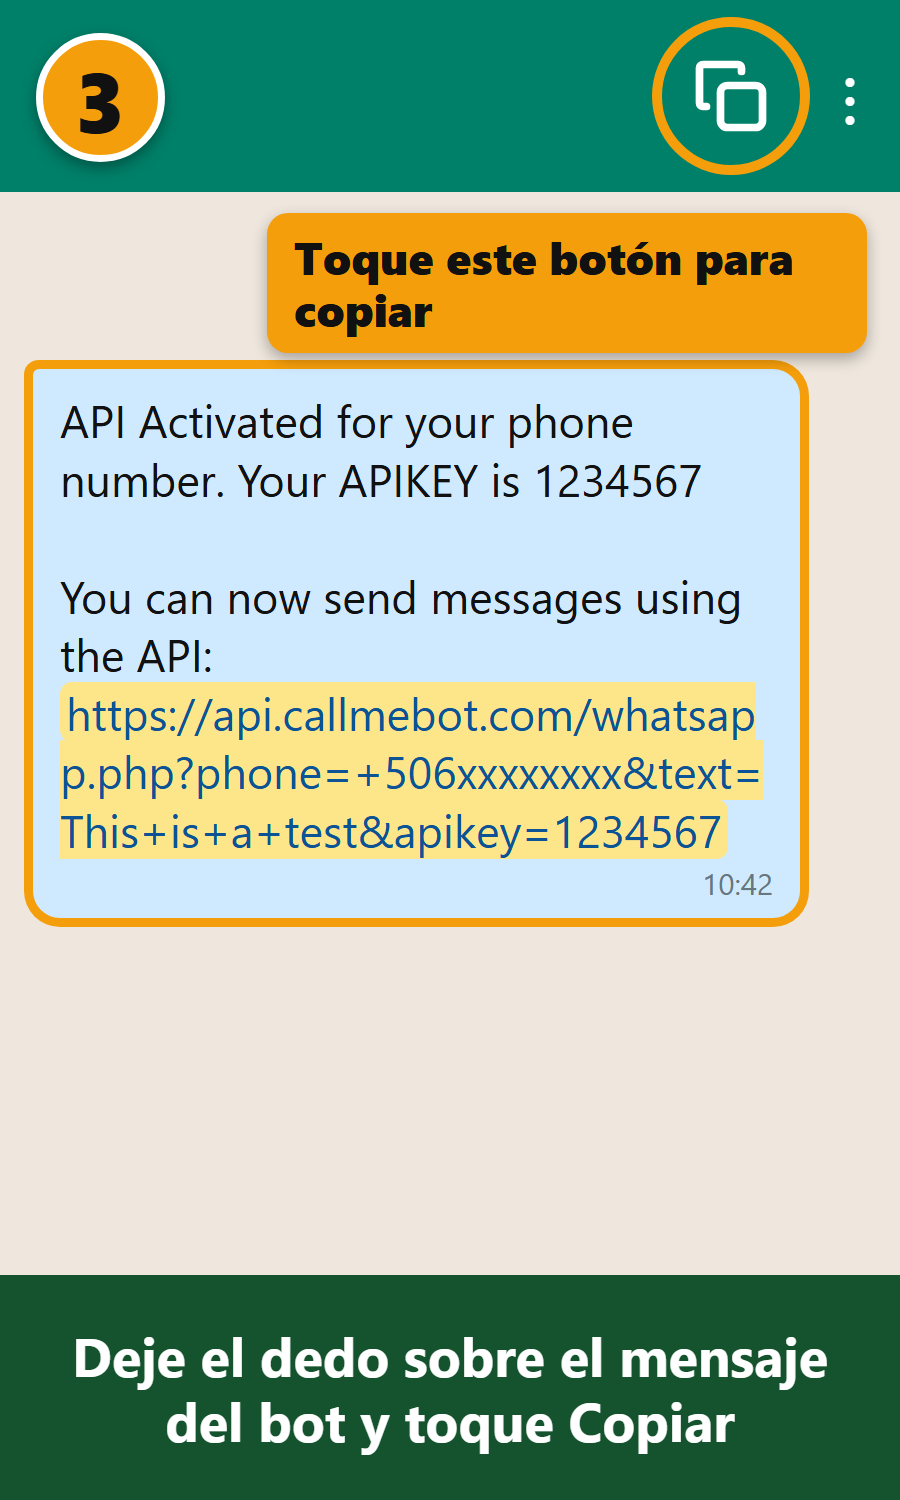
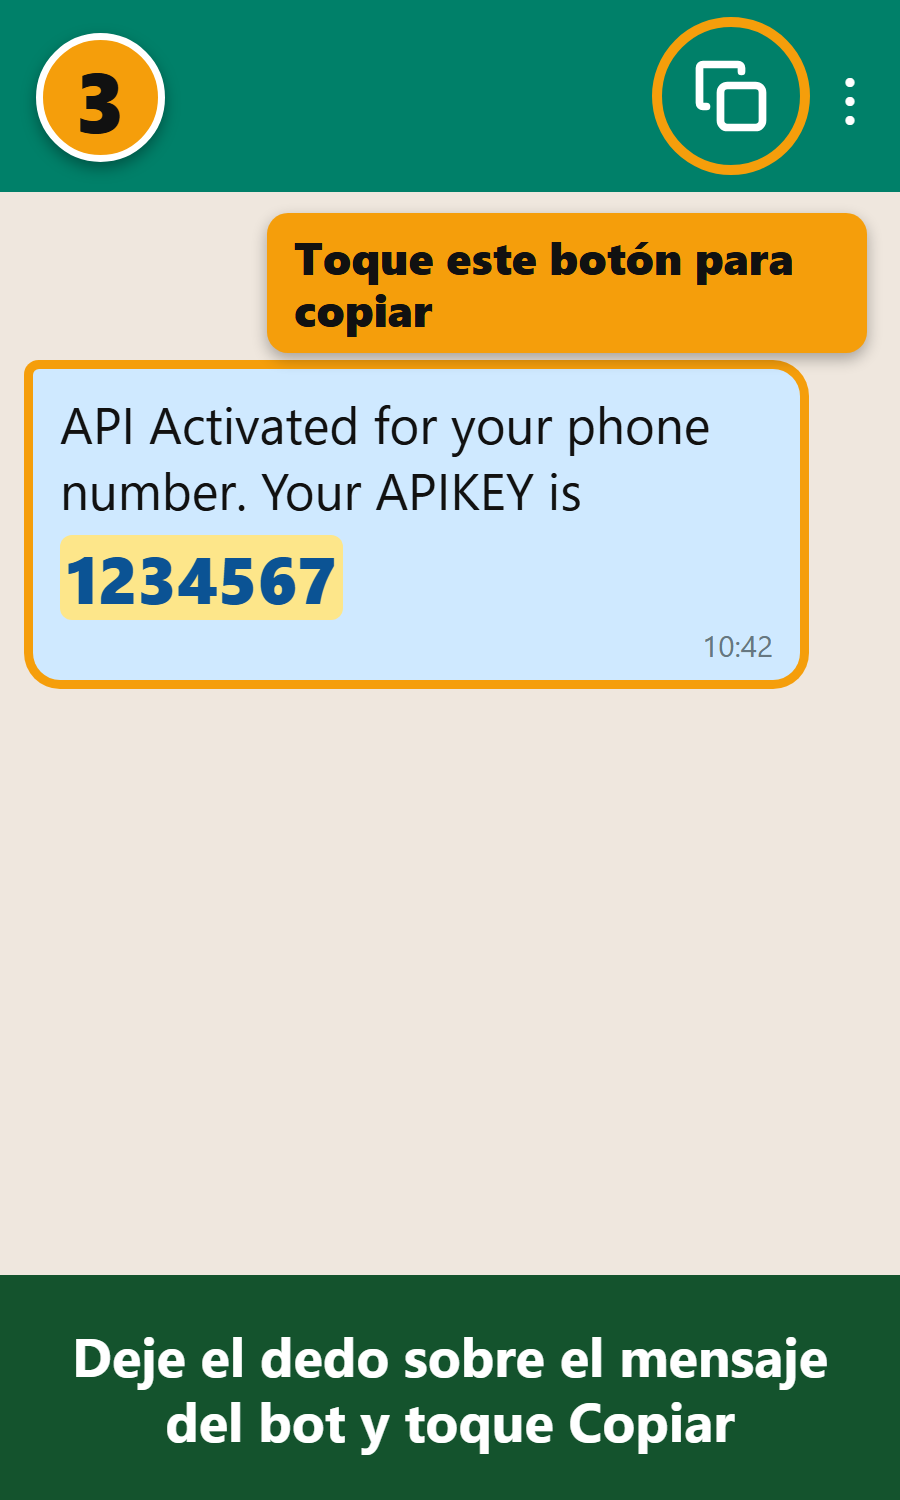
Guía de WhatsApp: el paso 3 muestra la respuesta real del bot (la clave) y letra más grande

Changed region(s): [[0.0, 0.276, 0.9022, 0.644]]

diff --git a/resources/views/whatsapp/_pasos.blade.php b/resources/views/whatsapp/_pasos.blade.php
@@ -30,12 +30,12 @@
     </li>
     <li class="border border-gray-200 rounded-lg overflow-hidden">
         <img src="{{ $imagen('paso-3-enlace.png') }}" width="600" height="1000" loading="lazy"
-             alt="Mensaje de respuesta del bot con el enlace resaltado y el botón Copiar" class="w-full max-w-xs mx-auto">
+             alt="Mensaje de respuesta del bot con la clave resaltada y el botón Copiar" class="w-full max-w-xs mx-auto">
         <div class="p-4 space-y-2">
             <h4 class="text-lg font-semibold text-gray-900">Paso 3. Copie la respuesta del bot</h4>
-            <p class="text-base text-gray-700">El bot le responde con un mensaje que trae un <strong>enlace largo</strong>. Deje el dedo sobre ese mensaje y toque <strong>Copiar</strong>.</p>
+            <p class="text-base text-gray-700">El bot le responde con un mensaje que dice <strong>Your APIKEY is</strong> y un número (su clave). Deje el dedo sobre ese mensaje y toque <strong>Copiar</strong>.</p>
             <p class="text-base text-gray-700">Después péguelo en el cuadro de aquí abajo.</p>
-            <p class="text-sm text-gray-600">Si el bot le dice «You already have an apikey», no se preocupe: ese mensaje también trae su enlace y sirve igual.</p>
+            <p class="text-sm text-gray-600">Si el bot le dice «You already have an apikey», no se preocupe: ese mensaje también trae su clave (y a veces un enlace largo) y sirve igual.</p>
         </div>
     </li>
 </ol>

diff --git a/resources/manual/whatsapp/generar_imagenes.py b/resources/manual/whatsapp/generar_imagenes.py
@@ -107,8 +107,7 @@ def paso3():
   <div class="resalta" style="width:84px;height:84px;border-radius:50%;display:flex;align-items:center;justify-content:center">{ICONO_COPIAR}</div>
   <span style="font-size:48px;color:#fff">&#8942;</span></div>
 <div class="wa-chat" style="padding-top:118px">
-  <div class="bur entra" style="background:#cfe9ff;box-shadow:0 0 0 6px #f59e0b;max-width:92%;font-size:30px">API Activated for your phone number. Your APIKEY is 1234567<br><br>You can now send messages using the API:<br>
-    <span class="link">https://api.callmebot.com/whatsapp.php?phone=+506xxxxxxxx&amp;text=This+is+a+test&amp;apikey=1234567</span><span class="hora">10:42</span></div>
+  <div class="bur entra" style="background:#cfe9ff;box-shadow:0 0 0 6px #f59e0b;max-width:92%;font-size:34px">API Activated for your phone number. Your APIKEY is<br><span class="link" style="font-weight:800;font-size:44px;white-space:nowrap;word-break:normal;display:inline-block;margin-top:8px">1234567</span><span class="hora">10:42</span></div>
 </div>
 <div class="nota" style="right:22px;top:142px;max-width:400px">Toque este botón para copiar</div>
 <div class="pie">Deje el dedo sobre el mensaje del bot y toque Copiar</div>""")
